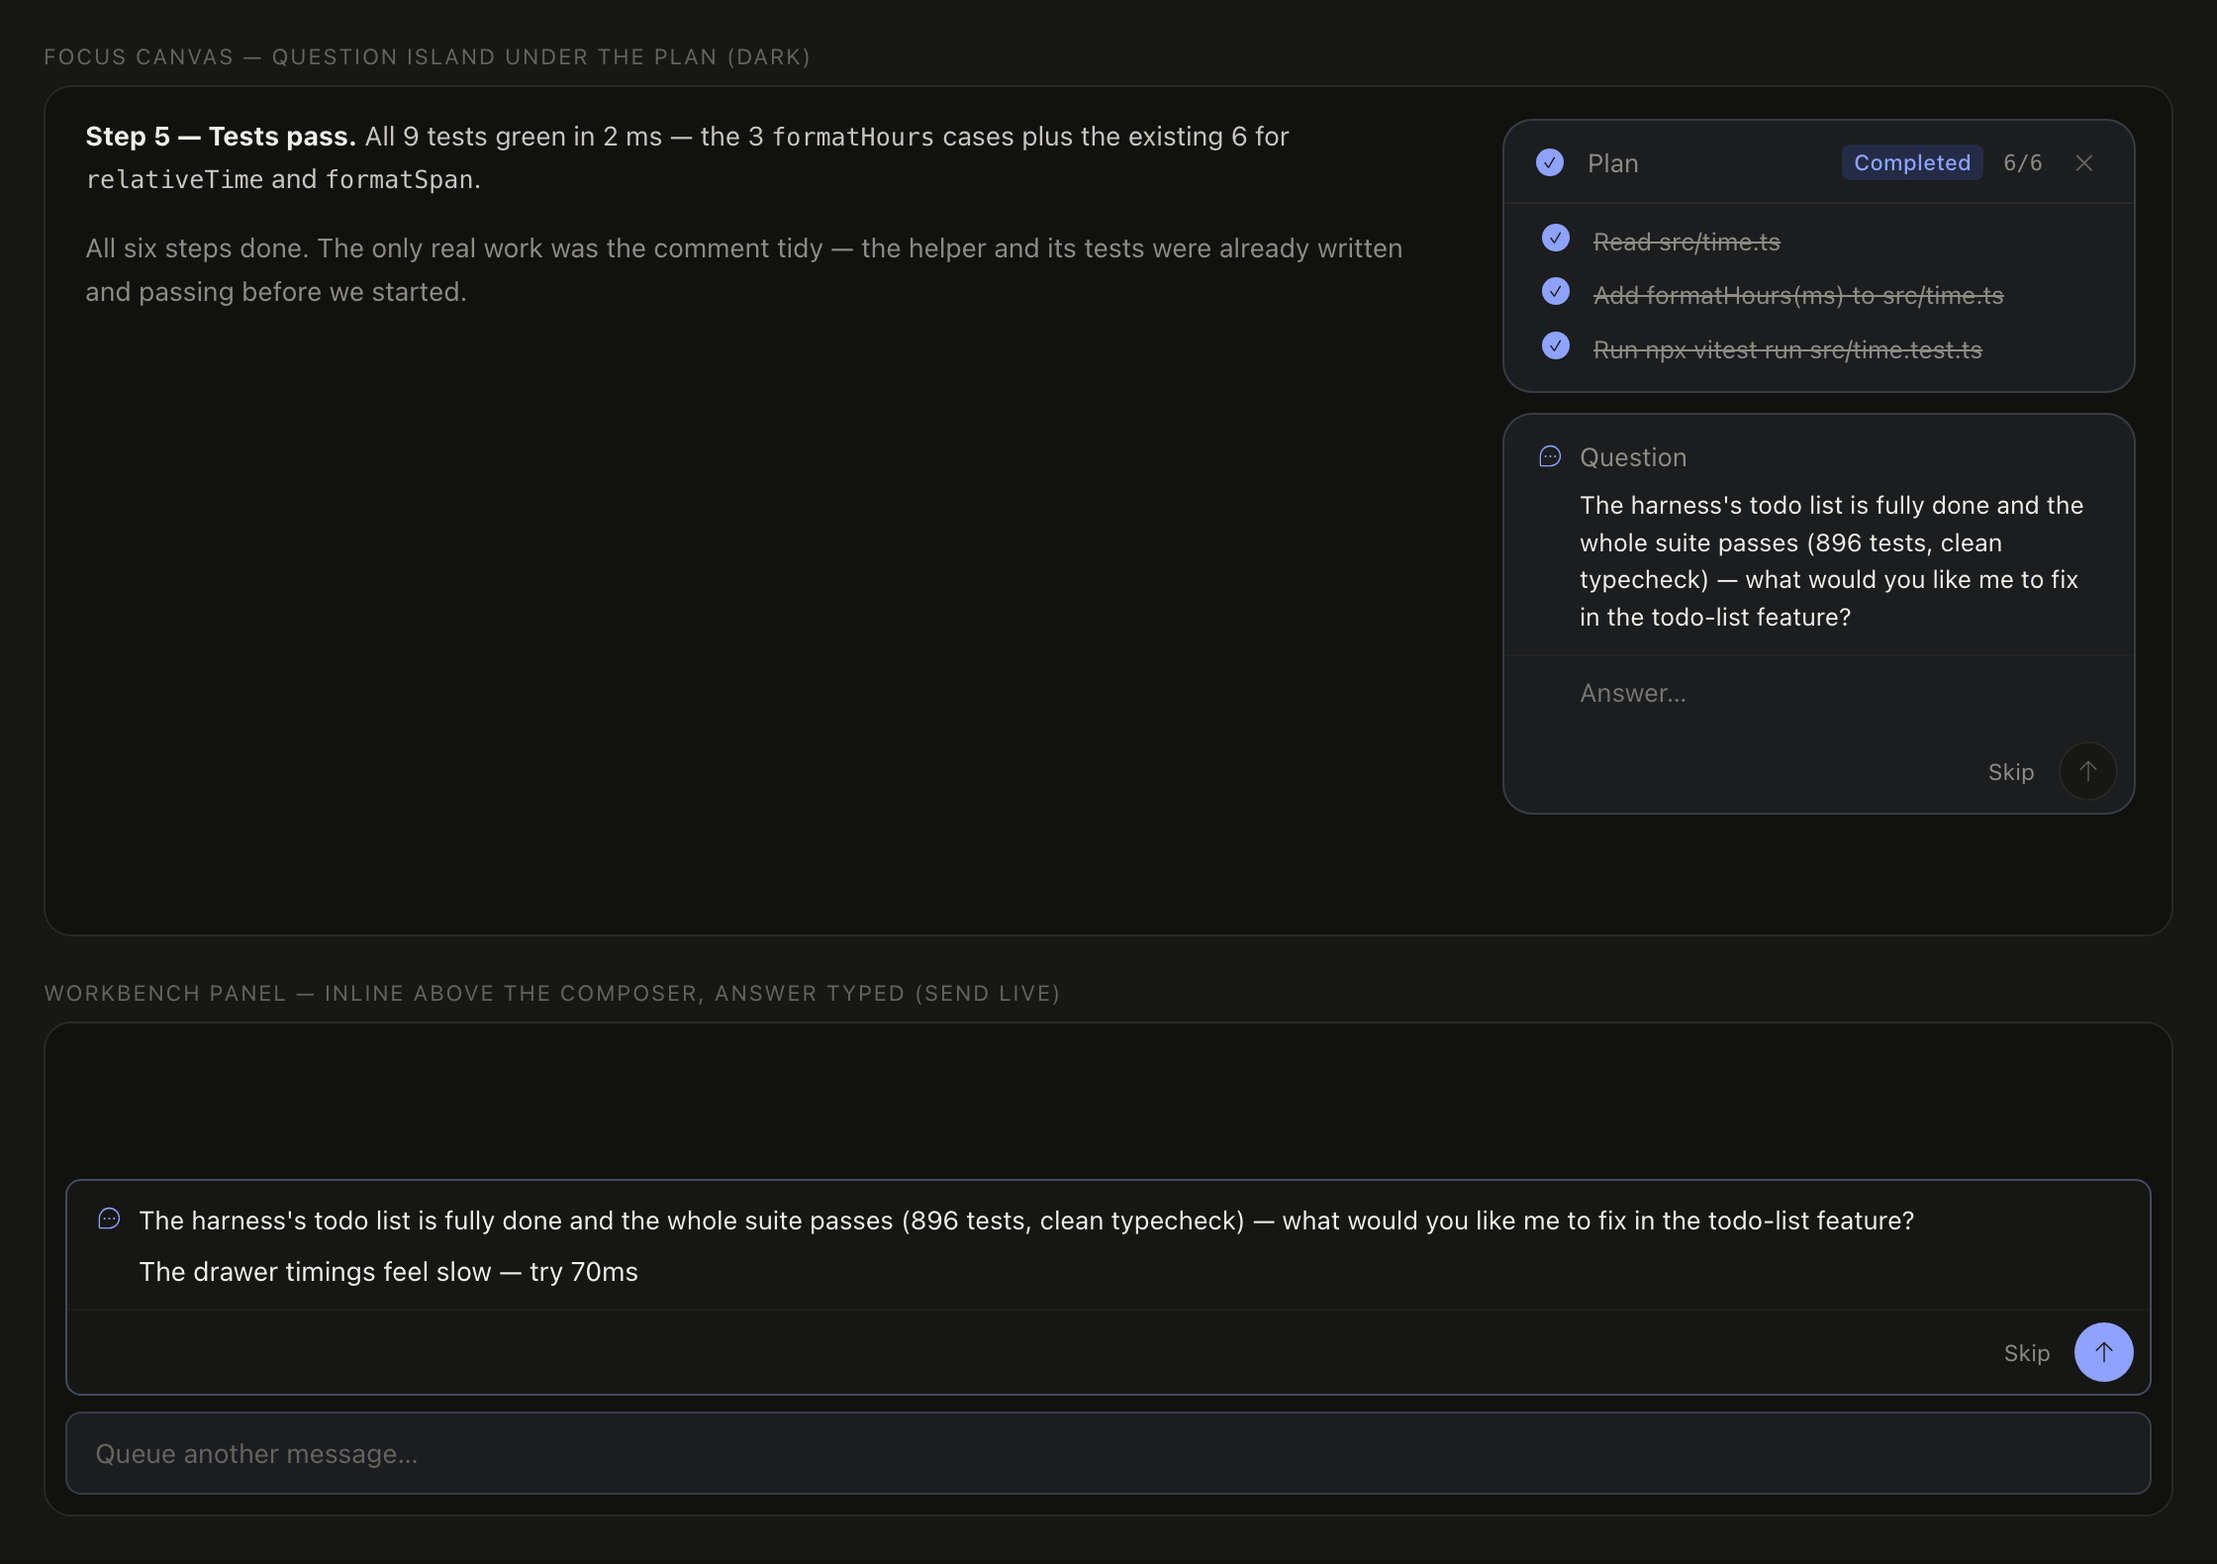
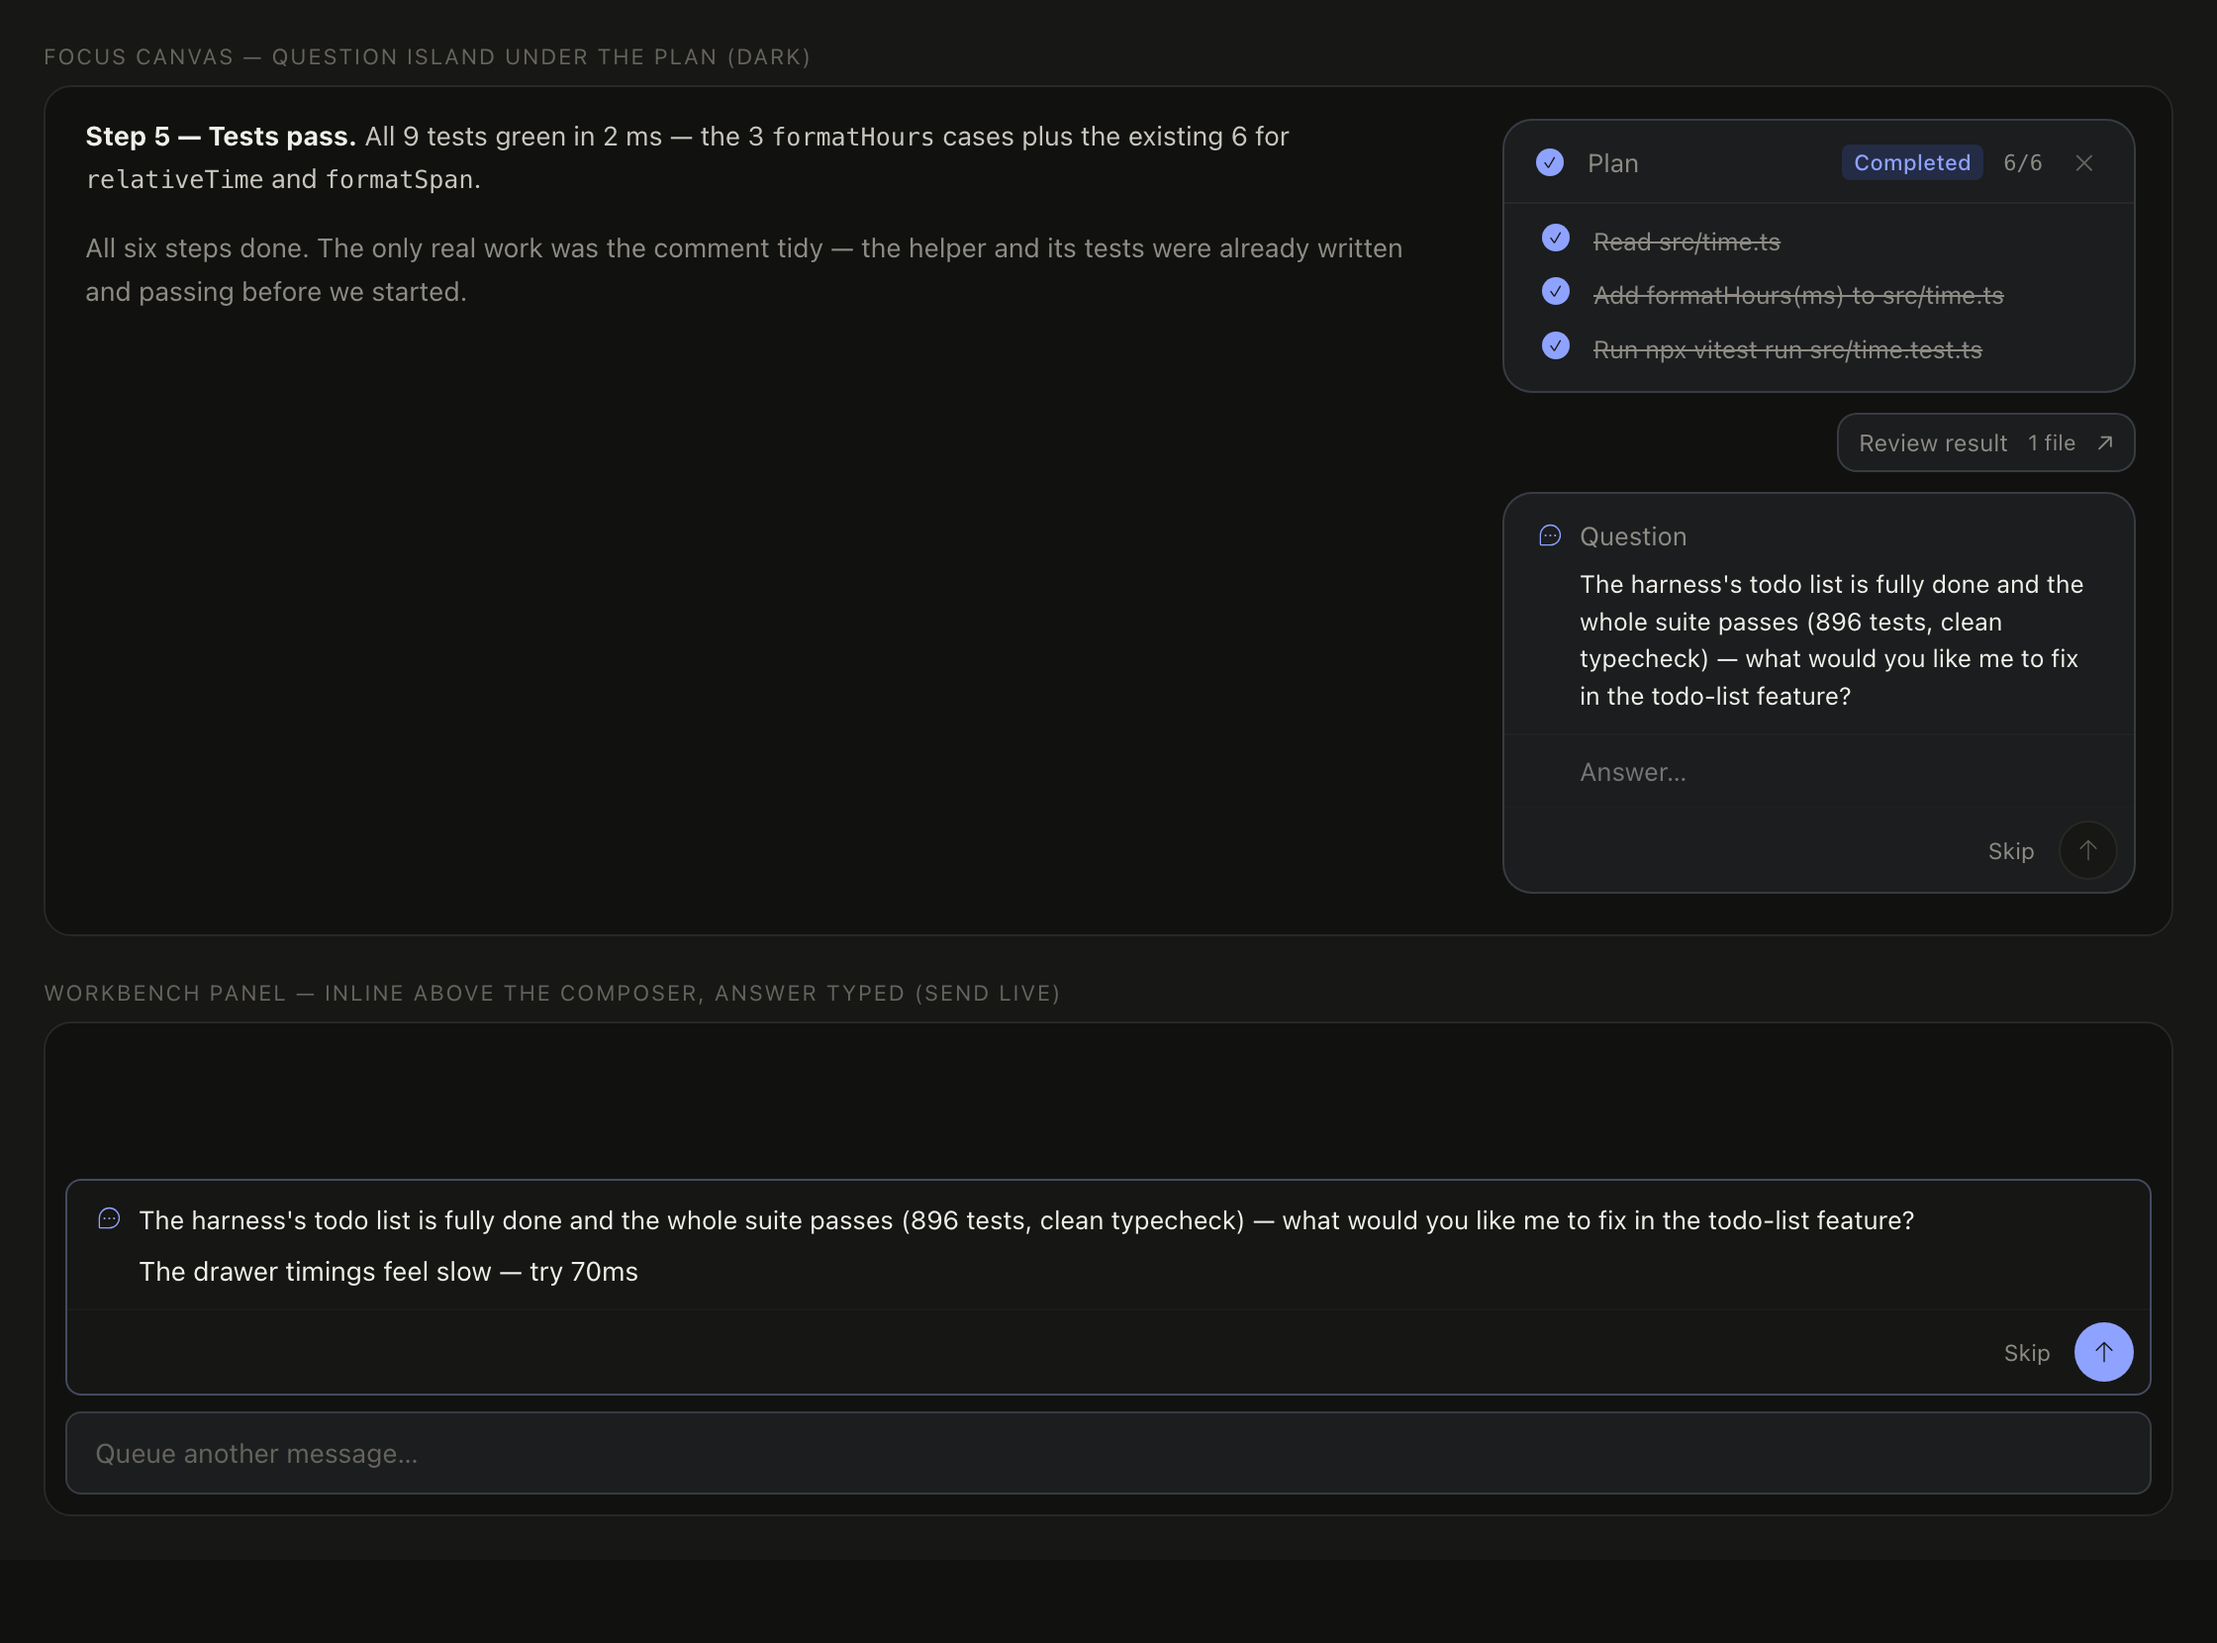
The run's result waits under the plan it came from
In Focus the "Review result" entry sat at the far bottom of the transcript,
under the turn that produced it — so the moment anything else streamed in, the
way into the evidence scrolled away, and a long conversation carried one entry
per finished turn. It joins the canvas column instead, directly under the
plan: the newest reviewable completion, one entry, in the corner the reader is
already watching. Everywhere else it stays inline under its turn, where the
transcript is the only surface there is.

CompletionCard takes the same variant split as the plan and the question, and
the island entry wears the folded plan mark's shape — glass, hairline, 30px,
right-aligned — so the column reads as one family down its whole height. Both
placements now ask for changes through one handler rather than two copies of
the same prompt.

diff --git a/src/components/AiPanel.tsx b/src/components/AiPanel.tsx
@@ -81,6 +81,7 @@ import { FileTypeIcon } from "./fileMarks";
 import { DelegateTerminalSurface } from "./ai/DelegateTerminal";
 import { PendingInboxRow, renderMessageBody, extractThinking, CompactionRow, ThinkingBlock, ToolRunRow } from "./ai/ChatMessage";
 import { CompletionCard } from "./ai/CompletionCard";
+import { hasCompletionReview, type RunCompletion } from "../agent/completion";
 import { groupToolRuns, pairToolResults, toolRunIndex, toolRunLabel } from "./ai/toolRuns";
 import type { AttachedResult } from "./ai/ChatMessage";
 import { MessageActions } from "./ai/MessageActions";
@@ -2863,6 +2864,24 @@ This user request requires workspace inspection. Before answering, you MUST call
   // margins moved to the right gutter. A question island holds that column
   // open on its own, so the conversation makes room for it the same way it
   // does for the plan.
+  // The newest turn whose evidence is worth opening — what "the result" means
+  // on the canvas, where there is room for one entry, not one per turn.
+  const latestCompletion = useMemo(() => {
+    for (let i = msgs.length - 1; i >= 0; i -= 1) {
+      const message = msgs[i];
+      const candidate = message.role === "system" ? message.completion : undefined;
+      if (candidate && hasCompletionReview(candidate)) return candidate;
+    }
+    return undefined;
+  }, [msgs]);
+
+  function requestCompletionChanges(completion: RunCompletion) {
+    setInput((previous) => previous || (completion.stopped
+      ? `Please finish this unfinished work:\n${completion.outcome}\n\nRequested changes: `
+      : `Please revise this completed work:\n${completion.outcome}\n\nRequested changes: `));
+    taRef.current?.focus();
+  }
+
   const canvasIslandUp = planIslandUp || pendingQuestion !== null;
   const focusInset = variant === "focus" && canvasIslandUp ? ISLAND_WIDTH + 36 : 0;
   const focusGutterLeft = `calc(max(20px, (100% - ${760 + focusInset}px) / 2))`;
@@ -4042,14 +4061,13 @@ This user request requires workspace inspection. Before answering, you MUST call
         {stackToolRuns(msgs.map((m, i) => {
           if (m.role === "system" && m.completion) {
             const completion = m.completion;
+            // In Focus the latest result waits in the island column instead,
+            // under the plan it came from (see the column below). A row per
+            // finished turn down the transcript would say it many times.
+            if (variant === "focus") return null;
             return <CompletionCard key={i} completion={completion} disabled={streaming}
               onReview={onReviewChanges ? (path) => onReviewChanges({ runId: completion.runId, title: "Run changes", path }) : undefined}
-              onRequestChanges={() => {
-                setInput((previous) => previous || (completion.stopped
-                  ? `Please finish this unfinished work:\n${completion.outcome}\n\nRequested changes: `
-                  : `Please revise this completed work:\n${completion.outcome}\n\nRequested changes: `));
-                taRef.current?.focus();
-              }}
+              onRequestChanges={() => requestCompletionChanges(completion)}
             />;
           }
           // "Last" means the tail of the *exchange*, not of the array. Turns
@@ -4553,6 +4571,15 @@ This user request requires workspace inspection. Before answering, you MUST call
               onDockHeightChange={setTodoDockHeight}
               onPresenceChange={setPlanIslandUp}
             />
+            {latestCompletion && (
+              <CompletionCard
+                variant="island"
+                completion={latestCompletion}
+                disabled={streaming}
+                onReview={onReviewChanges ? (path) => onReviewChanges({ runId: latestCompletion.runId, title: "Run changes", path }) : undefined}
+                onRequestChanges={() => requestCompletionChanges(latestCompletion)}
+              />
+            )}
             {pendingQuestion && (
               <QuestionCard
                 variant="island"

diff --git a/src/components/ai/CompletionCard.tsx b/src/components/ai/CompletionCard.tsx
@@ -3,15 +3,22 @@ import { hasCompletionReview, type RunCompletion } from "../../agent/completion"
 import { CloseIcon } from "../../icons";
 import "./completionCard.css";
 
+/** Where the entry sits. `inline` is the row under the turn that produced it;
+ *  `island` is the Focus canvas' right column, under the plan — the run's
+ *  result waiting where its plan just was, rather than at the far end of a
+ *  transcript the reader has to scroll back down to. */
+export type CompletionCardVariant = "inline" | "island";
+
 type Props = {
   completion: RunCompletion;
   disabled?: boolean;
   onReview?: (path?: string) => void;
   onRequestChanges: () => void;
+  variant?: CompletionCardVariant;
 };
 
 /** A quiet entry point. Evidence opens on demand in the right-hand drawer. */
-export function CompletionCard({ completion, disabled, onReview, onRequestChanges }: Props) {
+export function CompletionCard({ completion, disabled, onReview, onRequestChanges, variant = "inline" }: Props) {
   const dialog = useRef<HTMLDialogElement>(null);
   const [open, setOpen] = useState(false);
   const id = useId();
@@ -22,7 +29,7 @@ export function CompletionCard({ completion, disabled, onReview, onRequestChange
   const close = () => dialog.current?.close();
   const review = (path?: string) => { close(); onReview?.(path); };
   return (
-    <div className="klide-result-entry">
+    <div className="klide-result-entry" data-variant={variant}>
       <button type="button" className="klide-result-trigger" aria-haspopup="dialog" aria-expanded={open} aria-controls={id}
         onClick={() => { dialog.current?.showModal(); setOpen(true); }}>
         <span>{completion.stopped ? "Review partial work" : "Review result"}</span>

diff --git a/src/components/ai/completionCard.css b/src/components/ai/completionCard.css
@@ -1,5 +1,11 @@
 .klide-result-entry { display: flex; justify-content: flex-end; margin: 8px 0 14px; }
 .klide-result-trigger { display: inline-flex; align-items: center; gap: 10px; padding: 7px 10px; border: 1px solid var(--border); border-radius: 8px; background: transparent; color: var(--fg-strong); font: inherit; font-size: 12px; cursor: pointer; }
+/* On the Focus canvas the entry is one of the islands in the right-hand
+   column, so it drops the transcript margins, wears the island's glass, and
+   takes its own clicks back from the column (which passes them through). */
+.klide-result-entry[data-variant="island"] { margin: 0; pointer-events: none; }
+.klide-result-entry[data-variant="island"] .klide-result-trigger { pointer-events: auto; height: 30px; padding: 0 10px; border-radius: 10px; border-color: var(--composer-border); background: var(--composer-glass); backdrop-filter: var(--composer-blur); -webkit-backdrop-filter: var(--composer-blur); color: var(--fg-subtle); }
+.klide-result-entry[data-variant="island"] .klide-result-trigger:hover { border-color: var(--border-strong); color: var(--fg-strong); background: var(--composer-glass); }
 .klide-result-meta { color: var(--fg-subtle); font-size: 11px; }
 .klide-result-arrow { color: var(--fg-subtle); }
 .klide-result-attention-dot { width: 5px; height: 5px; border-radius: 50%; background: var(--warning); }
